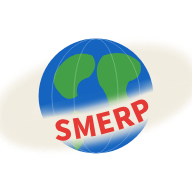
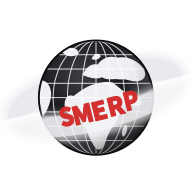
V20261126-04 아이콘 검은 지구로 통일 · 전 화면 탭 아이콘 · 메인 상단 SMERP 앞 아이콘
- 휴대폰 홈 화면 아이콘 4종(512·192·아이폰 180·둥근 512) 검은 지구 + 빨간 SMERP로 교체 (manifest ?v=2)
- 탭 전용 아이콘(favicon-64, 여백 없이·투명 배경): smerp-session.js에서 전 화면 적용, 세션 파일 없는 5개 화면은 직접 지정
- 메인 상단 SMERP 앞 정지 지구 아이콘 (PC 40px · 휴대폰 28px)

Claude-Session: https://claude.ai/code/session_01Uk118mz2X4F5Jg2Zu873Sz

diff --git a/index.html b/index.html
@@ -8,8 +8,8 @@
 <title>SMEKOREA 통합 플랫폼</title>
 <!-- (V20261125) 휴대폰 홈 화면 앱 아이콘 — 지구+SMERP 띠 -->
 <link rel="manifest" href="manifest.json">
-<link rel="icon" type="image/png" sizes="192x192" href="icons/icon-192.png">
-<link rel="apple-touch-icon" href="icons/apple-touch-icon.png">
+<link rel="icon" type="image/png" sizes="64x64" href="icons/favicon-64.png?v=2">
+<link rel="apple-touch-icon" href="icons/apple-touch-icon.png?v=2">
 <meta name="theme-color" content="#1B3A6B">
 <meta name="mobile-web-app-capable" content="yes">
 <meta name="apple-mobile-web-app-capable" content="yes">
@@ -51,6 +51,7 @@ html body .tb-logo{width:auto!important;background:transparent!important;}
   font-weight:900;font-size:34px;color:var(--red);letter-spacing:1px;line-height:1;
 }
 .tb-logo-ver{font-family:'Noto Sans KR',sans-serif;font-size:12px;color:var(--t2);white-space:nowrap;}
+.tb-logo-img{width:40px;height:40px;align-self:center;margin-right:-6px;flex-shrink:0;}   /* (V20261126-04) SMERP 앞 지구 아이콘 */
 
 /* 스페이서 */
 .tb-spacer{flex:1;}
@@ -297,6 +298,7 @@ html body .menu-tbl td:nth-child(3){grid-column:2;grid-row:1 / span 2;display:fl
 html body .topbar{height:auto!important;}
 html body .tb-logo{padding:0 14px!important;}
 html body .tb-logo-text{font-size:24px!important;}
+html body .tb-logo-img{width:28px!important;height:28px!important;margin-right:-6px!important;}
 html body .app-body{min-height:0!important;}
 html body .menu-tbl tbody tr{padding:14px 4px!important;}
 .mobile-tab{min-height:0!important;letter-spacing:-.3px;}
@@ -329,6 +331,7 @@ html body .tb-logout{height:28px!important;padding:0 6px!important;font-size:11p
   <div class="tb-row">
     <!-- 로고 -->
     <div class="tb-logo">
+      <img class="tb-logo-img" src="icons/logo-128.png?v=2" alt="" aria-hidden="true">
       <span class="tb-logo-text">SMERP</span>
       <span class="tb-logo-ver">Ver 1.6 · 2026-06-26 · SMEKOREA</span>
     </div>

diff --git a/smerp-session.js b/smerp-session.js
@@ -1,3 +1,10 @@
+/* (V20261126-04) 브라우저 탭 아이콘 — 전 화면 공통 (화면에 따로 지정한 아이콘이 없을 때만) */
+(function(){try{
+  if(document.querySelector('link[rel~="icon"]'))return;
+  var cs=document.currentScript,base=cs&&cs.src?cs.src:location.href;
+  var l=document.createElement('link');l.rel='icon';l.type='image/png';l.sizes='64x64';
+  l.href=new URL('icons/favicon-64.png?v=2',base).href;document.head.appendChild(l);
+}catch(e){}})();
 /* ============================================================================
    smerp-session.js v1.1 (2026-11-23) — 개인 계정 로그인 세션 공용 (전 화면 <head> 맨 앞)
    ── DB 단 차단(RLS) 이후: DB 요청마다 「로그인한 사람」 표시(Supabase 세션 토큰)를 붙여야 자료가 나온다

diff --git a/kpi_material.html b/kpi_material.html
@@ -2,6 +2,7 @@
 <html lang="ko">
 <head>
 <meta charset="UTF-8">
+<link rel="icon" type="image/png" sizes="64x64" href="icons/favicon-64.png?v=2">
 <script src="i18n.js?v=20261119e"></script>
 <script src="smerp-auth.js?v=3" data-screen="kpi_material"></script>
 <meta name="viewport" content="width=device-width, initial-scale=1.0">

diff --git a/kpi_planning.html b/kpi_planning.html
@@ -2,6 +2,7 @@
 <html lang="ko">
 <head>
 <meta charset="UTF-8">
+<link rel="icon" type="image/png" sizes="64x64" href="icons/favicon-64.png?v=2">
 <script src="i18n.js?v=20261119e"></script>
 <script src="smerp-auth.js?v=3" data-screen="kpi_planning"></script>
 <meta name="viewport" content="width=device-width, initial-scale=1.0">

diff --git a/kpi_purchase.html b/kpi_purchase.html
@@ -2,6 +2,7 @@
 <html lang="ko">
 <head>
 <meta charset="UTF-8">
+<link rel="icon" type="image/png" sizes="64x64" href="icons/favicon-64.png?v=2">
 <script src="i18n.js?v=20261119e"></script>
 <script src="smerp-auth.js?v=3" data-screen="kpi_purchase"></script>
 <meta name="viewport" content="width=device-width, initial-scale=1.0">

diff --git a/kpi_mfg.html b/kpi_mfg.html
@@ -2,6 +2,7 @@
 <html lang="ko">
 <head>
 <meta charset="UTF-8">
+<link rel="icon" type="image/png" sizes="64x64" href="icons/favicon-64.png?v=2">
 <script src="i18n.js?v=20261119e"></script>
 <script src="smerp-auth.js?v=3" data-screen="kpi_mfg"></script>
 <meta name="viewport" content="width=device-width, initial-scale=1.0">

diff --git a/po_smeglobal.html b/po_smeglobal.html
@@ -2,6 +2,7 @@
 <html lang="ko">
 <head>
 <meta charset="UTF-8">
+<link rel="icon" type="image/png" sizes="64x64" href="icons/favicon-64.png?v=2">
 <script src="i18n.js?v=20261119e"></script>
 <script src="smerp-auth.js?v=3" data-screen="po"></script>
 <meta name="viewport" content="width=device-width, initial-scale=1.0">
